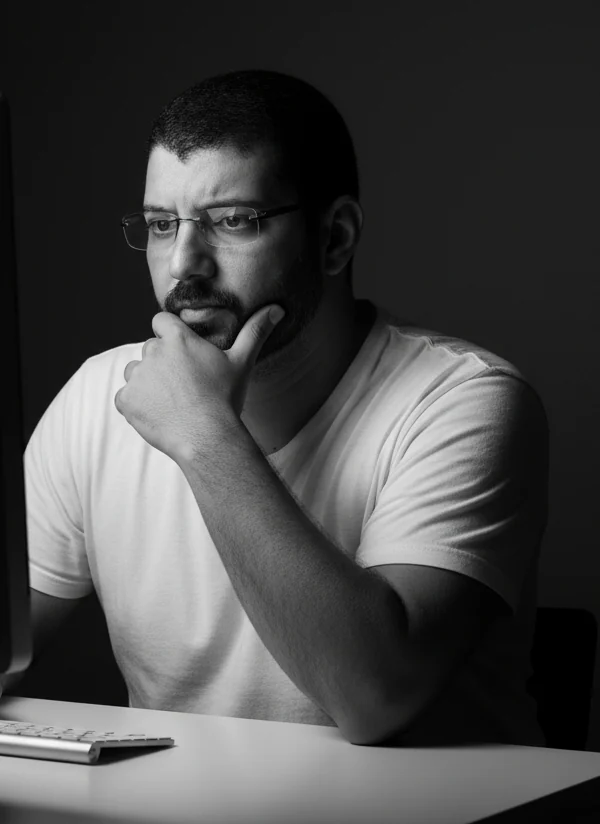
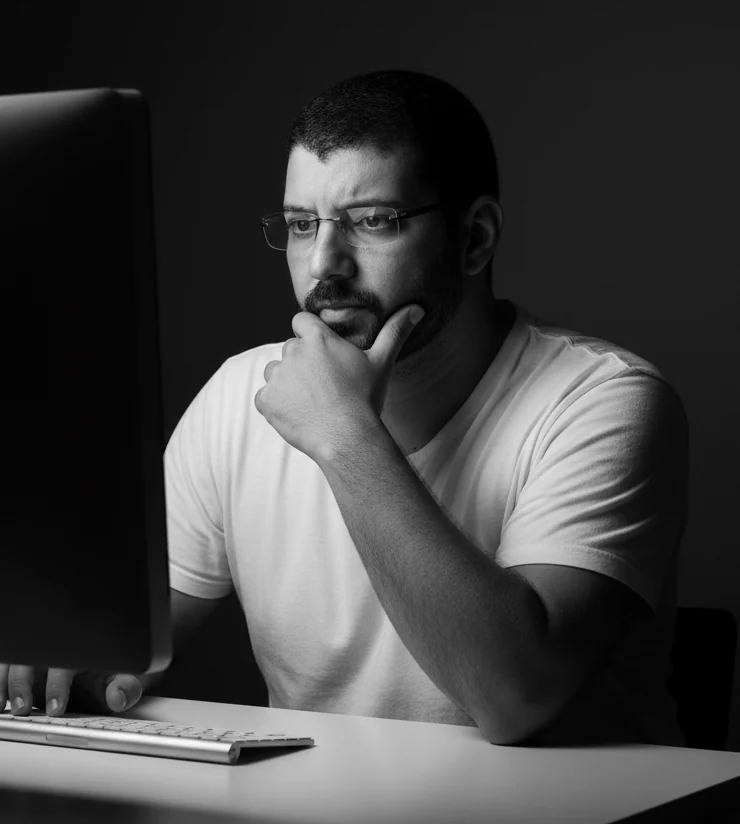
Author card: short text uses the full card width (drop the 68ch cap); GEO card gets a wider photo (widePhoto, wider eu01ia crop) and a longer, more personal text

diff --git a/frontend/src/styles/site.css b/frontend/src/styles/site.css
@@ -5001,6 +5001,10 @@ body:not(:has(.t3-hero-full)) main.t3 {
   object-position: 50% 12%;
   border: 1px solid rgba(255, 255, 255, 0.14);
 }
+.ac-wide .ac-photo {
+  width: clamp(200px, 27vw, 400px);
+  object-position: 50% 20%;
+}
 .ac-k {
   font-family: var(--t3-mono, "JetBrains Mono", ui-monospace, monospace);
   font-size: 11px;
@@ -5015,11 +5019,11 @@ body:not(:has(.t3-hero-full)) main.t3 {
   letter-spacing: -0.03em;
   line-height: 1.12;
 }
+/* the argument text uses the card's full width (a 68ch cap left an empty band on the right, Juan 30/09) */
 .ac p {
   margin: 0;
-  max-width: 68ch;
-  font-size: 15px;
-  line-height: 1.65;
+  font-size: clamp(15px, 1.1vw, 16.5px);
+  line-height: 1.7;
   color: rgba(255, 255, 255, 0.68);
 }
 .ac-chips {
@@ -5068,7 +5072,8 @@ body:not(:has(.t3-hero-full)) main.t3 {
   .ac {
     grid-template-columns: 1fr;
   }
-  .ac-photo {
+  .ac-photo,
+  .ac-wide .ac-photo {
     width: 100%;
     height: 220px;
     min-height: 0;
